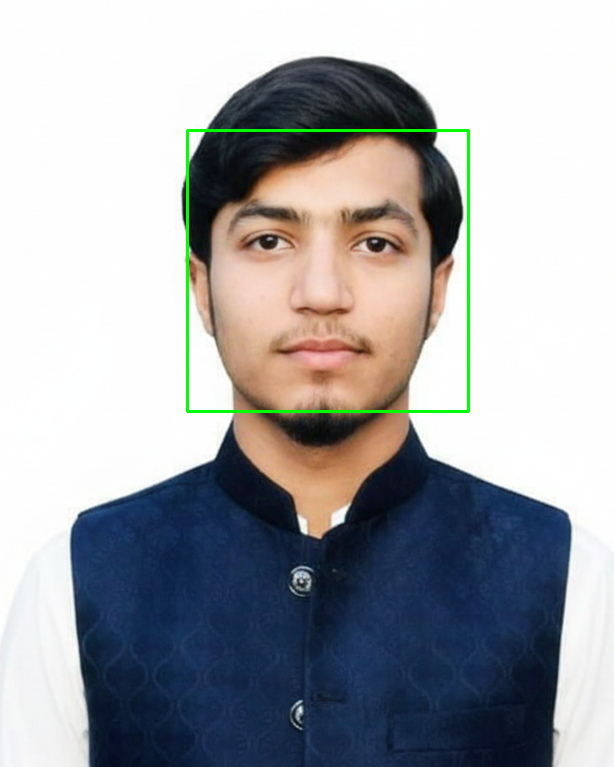
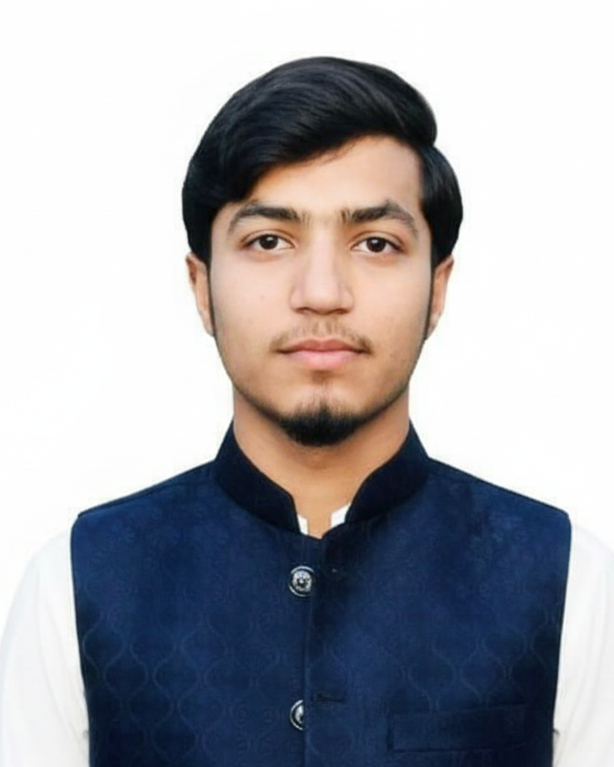
implement  openCV face detection and fraames alignment

Changed region(s): [[0.2785, 0.1499, 0.7736, 0.5398]]

diff --git a/templates/tryon_image.html b/templates/tryon_image.html
@@ -6,9 +6,16 @@
     <meta name="viewport" content="width=device-width, initial-scale=1">
     <title>Photo Try-On</title>
     <link rel="stylesheet" href="{{ url_for('static', filename='css/style.css') }}">
+
+
 </head>
 
 <body>
+    <div id="face-data-storage" data-json="{{ face_data | tojson | safe }}" style="display: none;"></div>
+    <script>
+        var faceDataStorage = document.getElementById('face-data-storage');
+        var faceData = faceDataStorage ? JSON.parse(faceDataStorage.getAttribute('data-json')) : null;
+    </script>
     <div class="container">
         <h1>Virtual Specs Try-On</h1>
 
@@ -91,6 +98,11 @@
                 <div class="control-group">
                     <label for="frameOpacity">Opacity: <span id="frameOpacityValue">100</span>%</label>
                     <input type="range" id="frameOpacity" min="0" max="100" value="100" class="slider">
+                </div>
+
+                <div class="control-group">
+                    <label for="frameRotation">Rotation: <span id="frameRotationValue">0</span>°</label>
+                    <input type="range" id="frameRotation" min="-45" max="45" value="0" class="slider">
                 </div>
 
                 <button class="btn btn-secondary" id="resetBtn">Reset Position</button>

diff --git a/static/js/file-upload.js b/static/js/file-upload.js
@@ -5,15 +5,13 @@ document.addEventListener('DOMContentLoaded', function() {
     if (fileInput && fileTextSpan) {
         fileInput.addEventListener('change', function(e) {
             if (e.target.files && e.target.files.length > 0) {
-                // Get file name and truncate if too long
                 let fileName = e.target.files[0].name;
                 if (fileName.length > 25) {
                     fileName = fileName.substring(0, 22) + '...';
                 }
                 fileTextSpan.textContent = fileName;
-                fileTextSpan.style.color = 'var(--white)'; // Ensure text is visible/highlighted
+                fileTextSpan.style.color = 'var(--white)'; // Ensure text is visible
                 
-                // Add success styling
                 const container = document.querySelector('.custum-file-upload');
                 container.style.borderColor = 'var(--primary)';
                 container.style.backgroundColor = 'rgba(102, 126, 234, 0.9)';

diff --git a/app.py b/app.py
@@ -37,17 +37,38 @@ def tryon_image():
             gray = cv2.cvtColor(img, cv2.COLOR_BGR2GRAY)
             faces = face_cascade.detectMultiScale(gray, 1.3, 5)
             
-            # Draw rectangle on face (for now, just a placeholder)
-            for (x, y, w, h) in faces:
-                cv2.rectangle(img, (x, y), (x+w, y+h), (0, 255, 0), 2)
+            # Calculate face metrics for auto-positioning
+            face_data = None
+            if len(faces) > 0:
+                # Use the first face found (usually largest/clearest)
+                (x, y, w, h) = faces[0]
+                img_h, img_w, _ = img.shape
+                
+                # Calculate ideal positions (0-1000 scale to match sliders)
+                # Center X: middle of face
+                center_x = ((x + w/2) / img_w) * 1000
+                
+                # Eye Y: approx 35-40% down from top of face box
+                # Face box usually includes forehead, so eyes are roughly at top 1/3
+                eye_y = ((y + h*0.37) / img_h) * 1000
+                
+                # Width: glasses should be slightly wider than face (e.g. 90-100% of face width)
+                # We map this to % of image width
+                width_percent = (w / img_w) * 1000 * 1.0 # 1.0 scaling factor
+                
+                face_data = {
+                    'x': round(center_x, 1),
+                    'y': round(eye_y, 1),
+                    'width': round(width_percent, 1)
+                }
             
             processed_path = os.path.join(app.config['UPLOAD_FOLDER'], 'processed_' + file.filename)
             cv2.imwrite(processed_path, img)
             
             # Return only the path relative to static folder
             relative_path = 'uploads/processed_' + file.filename
-            return render_template('tryon_image.html', uploaded_image=relative_path, frames=available_frames)
-    return render_template('tryon_image.html', uploaded_image=None, frames=available_frames)
+            return render_template('tryon_image.html', uploaded_image=relative_path, frames=available_frames, face_data=face_data)
+    return render_template('tryon_image.html', uploaded_image=None, frames=available_frames, face_data=None)
 
 
 if __name__ == '__main__':
